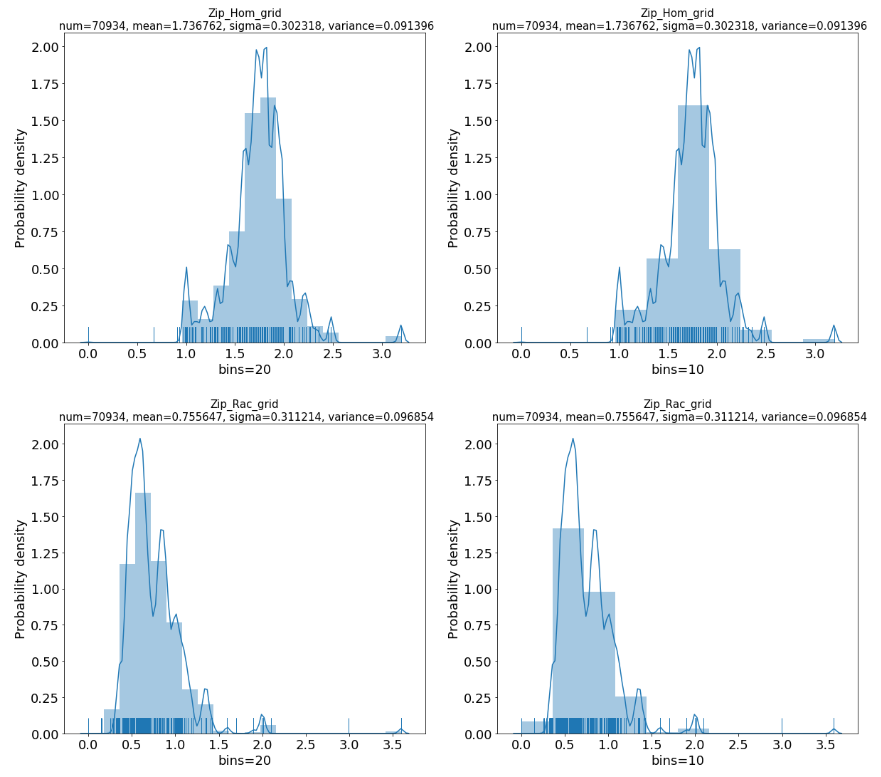
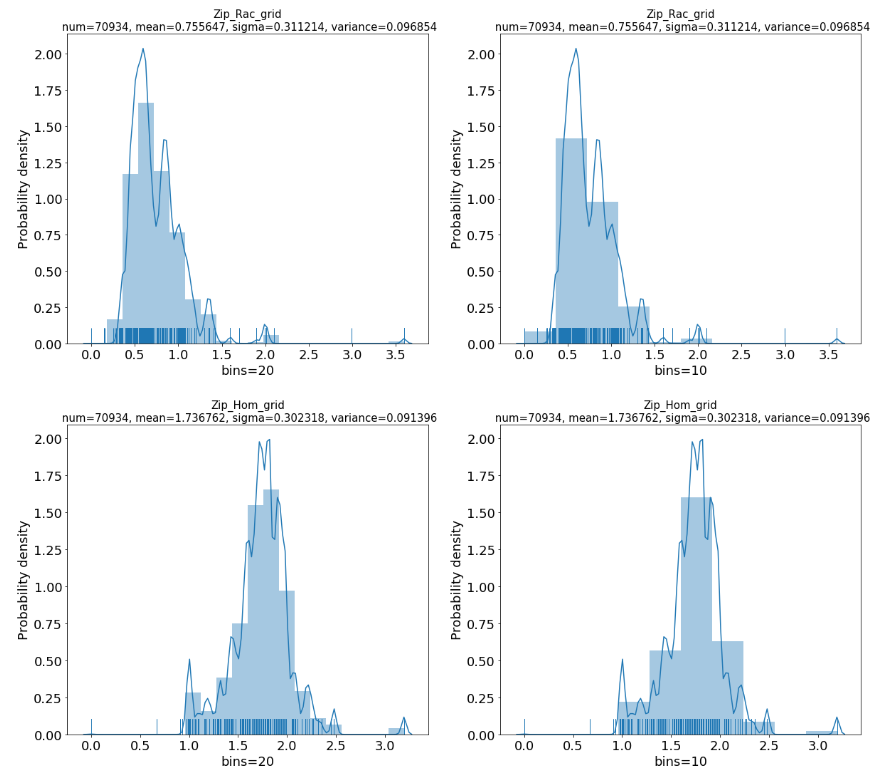
update for AWM variables distribution

Changed region(s): [[0.0, 0.0, 1.0, 0.9884], [0.9226, 0.9266, 0.9841, 0.9884]]

diff --git a/results/distribution.md b/results/distribution.md
@@ -15,7 +15,7 @@
 </p>
 
 
-# Discrimination variables
+# Discrimination - grid cell variables
 
 <p align="center">
   <img src="https://github.com/meettyj/MSM-Discrimination-on-Twitter/raw/master/results/screenshots/distribution_discrimination_grid_1.png" />
@@ -25,7 +25,15 @@
   <img src="https://github.com/meettyj/MSM-Discrimination-on-Twitter/raw/master/results/screenshots/distribution_discrimination_grid_2.png" />
 </p>
 
+# Discrimination - AWM variables
 
+<p align="center">
+  <img src="https://github.com/meettyj/MSM-Discrimination-on-Twitter/raw/master/results/screenshots/distribution_discrimination_AWM_1.png" />
+</p>
+
+<p align="center">
+  <img src="https://github.com/meettyj/MSM-Discrimination-on-Twitter/raw/master/results/screenshots/distribution_discrimination_AWM_2.png" />
+</p>
 
 
 
